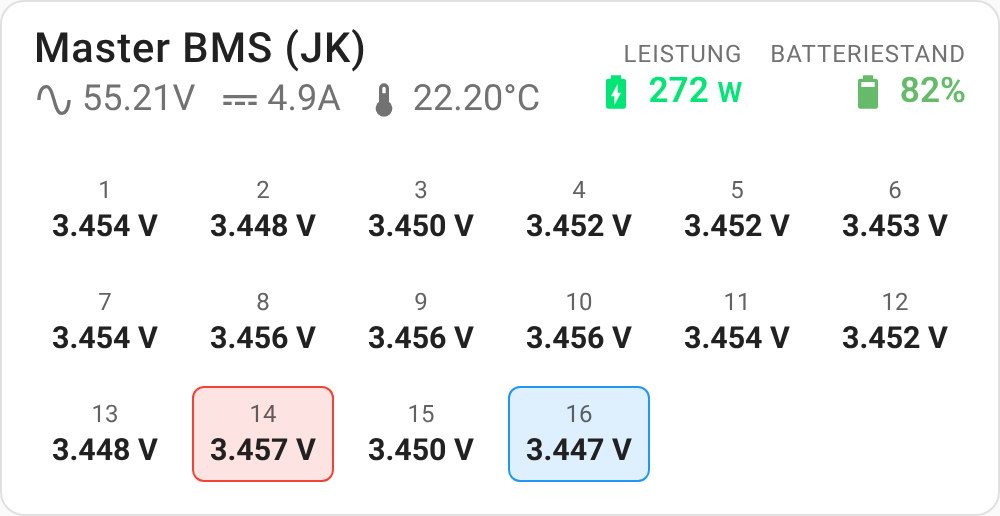
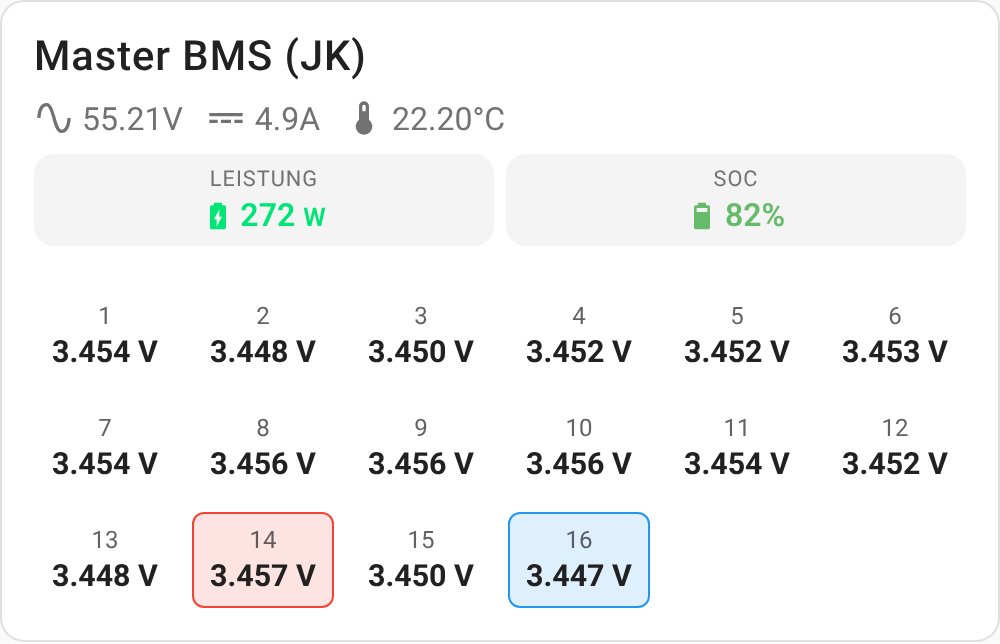
Schmale Karten: Kopf sortiert – Titel, Spannung/Strom/Temp, Werte als Kachelreihe (v_2.1-jk.6)
Claude-Session: https://claude.ai/code/session_01C5juEoGqVjLf8usnHZRGpz

diff --git a/dist/bms-battery-cells-card-jkbms.js b/dist/bms-battery-cells-card-jkbms.js
@@ -585,7 +585,7 @@ const css = LitElement.prototype.css;
 // JK-BMS-Fork: eigener Elementname, damit die Original-Karte parallel installiert bleiben kann
 const CARD_TAG = "bms-battery-cells-card-jkbms";
 const EDITOR_TAG = "bms-battery-cells-card-jkbms-editor";
-const CARD_VERSION = "v_2.1-jk.5";
+const CARD_VERSION = "v_2.1-jk.6";
 
 // Entitäten-Schema des JK-BMS-RS485-Add-ons (Fork Xander2980/jkbms-rs485-addon ab 4.2, Original jean-luc1203),
 // Präfix z. B. "bms_master". "{p}" = Präfix. Selbst konfigurierte Werte haben immer Vorrang.
@@ -1679,9 +1679,17 @@ class BmsBatteryCellsCard extends HTMLElement {
                 .cell-val-badge.cell-voltage { background: var(--badge-bg-color); color: #fff; padding: 4px 10px; font-size: 13px; border-radius: 12px; font-weight: 700; letter-spacing: 0.5px; box-shadow: 0 2px 4px rgba(0,0,0,0.4); border: 1px solid rgba(255,255,255,0.1); display: var(--val-display); white-space: nowrap; }
                 .legend-col { display: flex; flex-direction: var(--legend-direction); justify-content: var(--legend-align); ${horizontal_layout ? 'width: 100%; height: 20px; border-top: var(--legend-border-top); padding-top: 2px;' : 'height: 100%; padding-right: 8px; margin-right: 4px; border-right: var(--legend-border); min-width: 40px;'} font-size: 11px; color: var(--secondary-text-color); text-align: right; font-weight: 500; }
                 ha-icon { --mdc-icon-size: 20px; }
-                @media (max-width: 480px) {
-                    .header.card-header { grid-template-areas: "title stats" "none subinfo"; grid-template-rows: auto auto; }
-                    .sub-info-row { justify-content: flex-end; margin-top: 4px; }
+                ha-card { container-type: inline-size; }
+                /* Schmale Karte (z. B. 3 Spalten): Titel oben, Spannung/Strom/Temp darunter, Werte als gleich breite Kacheln in einer Reihe */
+                @container (max-width: 620px) {
+                    .header.card-header { grid-template-areas: "title" "subinfo" "stats"; grid-template-columns: minmax(0, 1fr); row-gap: 8px; }
+                    .title { margin-top: 0; }
+                    .sub-info-row { justify-content: flex-start; margin-top: 0; font-size: 1rem; }
+                    .stats { display: grid; grid-auto-flow: column; grid-auto-columns: minmax(0, 1fr); gap: 6px; justify-content: stretch; }
+                    .stat-item { align-items: center; text-align: center; background: rgba(var(--rgb-primary-text-color, 127,127,127), 0.05); border-radius: 10px; padding: 6px 4px; min-width: 0; }
+                    .stat-label { margin-bottom: 2px; font-size: 0.68rem; }
+                    .stat-value-row, .stat-value-row.vertical-layout { flex-direction: row; gap: 3px; font-size: 1rem; align-items: center; }
+                    .stat-value-row ha-icon { --mdc-icon-size: 16px; }
                 }
             </style>
         `;

diff --git a/src/bms-battery-cells-card.js b/src/bms-battery-cells-card.js
@@ -12,7 +12,7 @@ const css = LitElement.prototype.css;
 // JK-BMS-Fork: eigener Elementname, damit die Original-Karte parallel installiert bleiben kann
 const CARD_TAG = "bms-battery-cells-card-jkbms";
 const EDITOR_TAG = "bms-battery-cells-card-jkbms-editor";
-const CARD_VERSION = "v_2.1-jk.5";
+const CARD_VERSION = "v_2.1-jk.6";
 
 // Entitäten-Schema des JK-BMS-RS485-Add-ons (Fork Xander2980/jkbms-rs485-addon ab 4.2, Original jean-luc1203),
 // Präfix z. B. "bms_master". "{p}" = Präfix. Selbst konfigurierte Werte haben immer Vorrang.
@@ -1106,9 +1106,17 @@ class BmsBatteryCellsCard extends HTMLElement {
                 .cell-val-badge.cell-voltage { background: var(--badge-bg-color); color: #fff; padding: 4px 10px; font-size: 13px; border-radius: 12px; font-weight: 700; letter-spacing: 0.5px; box-shadow: 0 2px 4px rgba(0,0,0,0.4); border: 1px solid rgba(255,255,255,0.1); display: var(--val-display); white-space: nowrap; }
                 .legend-col { display: flex; flex-direction: var(--legend-direction); justify-content: var(--legend-align); ${horizontal_layout ? 'width: 100%; height: 20px; border-top: var(--legend-border-top); padding-top: 2px;' : 'height: 100%; padding-right: 8px; margin-right: 4px; border-right: var(--legend-border); min-width: 40px;'} font-size: 11px; color: var(--secondary-text-color); text-align: right; font-weight: 500; }
                 ha-icon { --mdc-icon-size: 20px; }
-                @media (max-width: 480px) {
-                    .header.card-header { grid-template-areas: "title stats" "none subinfo"; grid-template-rows: auto auto; }
-                    .sub-info-row { justify-content: flex-end; margin-top: 4px; }
+                ha-card { container-type: inline-size; }
+                /* Schmale Karte (z. B. 3 Spalten): Titel oben, Spannung/Strom/Temp darunter, Werte als gleich breite Kacheln in einer Reihe */
+                @container (max-width: 620px) {
+                    .header.card-header { grid-template-areas: "title" "subinfo" "stats"; grid-template-columns: minmax(0, 1fr); row-gap: 8px; }
+                    .title { margin-top: 0; }
+                    .sub-info-row { justify-content: flex-start; margin-top: 0; font-size: 1rem; }
+                    .stats { display: grid; grid-auto-flow: column; grid-auto-columns: minmax(0, 1fr); gap: 6px; justify-content: stretch; }
+                    .stat-item { align-items: center; text-align: center; background: rgba(var(--rgb-primary-text-color, 127,127,127), 0.05); border-radius: 10px; padding: 6px 4px; min-width: 0; }
+                    .stat-label { margin-bottom: 2px; font-size: 0.68rem; }
+                    .stat-value-row, .stat-value-row.vertical-layout { flex-direction: row; gap: 3px; font-size: 1rem; align-items: center; }
+                    .stat-value-row ha-icon { --mdc-icon-size: 16px; }
                 }
             </style>
         `;
